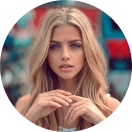
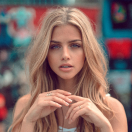
Замена фото профиля и добавление стилей

diff --git a/src/components/contentProfile/ContentProfile.tsx b/src/components/contentProfile/ContentProfile.tsx
@@ -29,7 +29,12 @@ const ContentProfile = () => {
       title: 'Sunset Sunset Sunset',
       img: 'https://wallpapercrafter.com/sizes/1366x768/234244-quino-quinoal-mlaga-and-playa-dela-misericordium-h.jpg',
       comments: [
-        { id: 0, author: 'Anna Root', text: 'lervrververvevrerbreerbreb', timestamp: '20:30 am' },
+        {
+          id: 0,
+          author: 'Anna Root',
+          text: 'Touch the sun, and immerse in the sea. Keep love in your heart.',
+          timestamp: '20:30 am',
+        },
       ],
     },
   ];

diff --git a/src/components/article/Article.tsx b/src/components/article/Article.tsx
@@ -20,6 +20,7 @@ interface Article {
 }
 
 const Article: React.FC<Article> = ({ id, title, img, comments }) => {
+	
   const [isOpen, setIsOpen] = useState<boolean>(false);
 
   const handlerClick = () => {

diff --git a/src/components/userCard/UserCard.module.scss b/src/components/userCard/UserCard.module.scss
@@ -14,6 +14,7 @@
 	margin-bottom: 16px;
 
 	& img {
+		border-radius: 50%;
 		width: 100%;
 	}
 }
